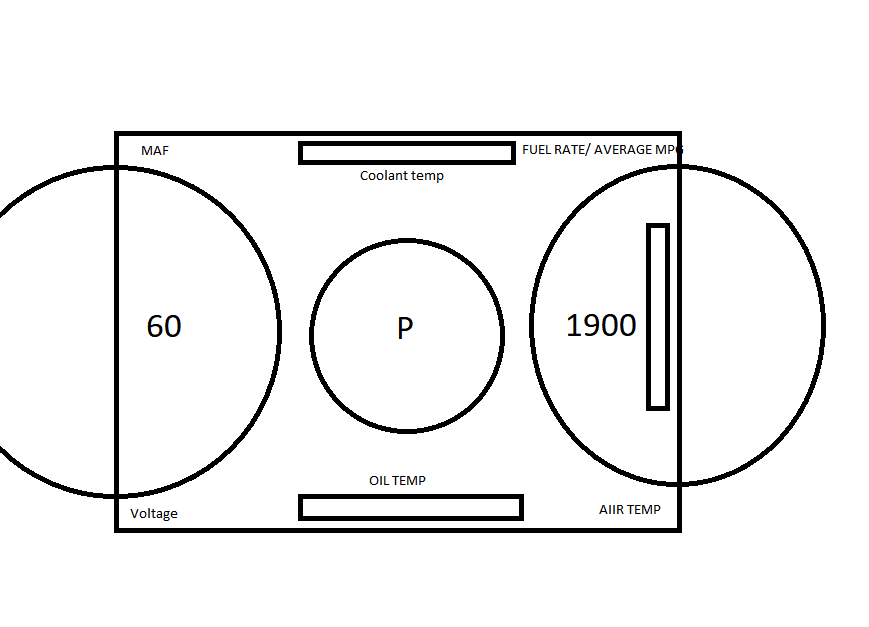
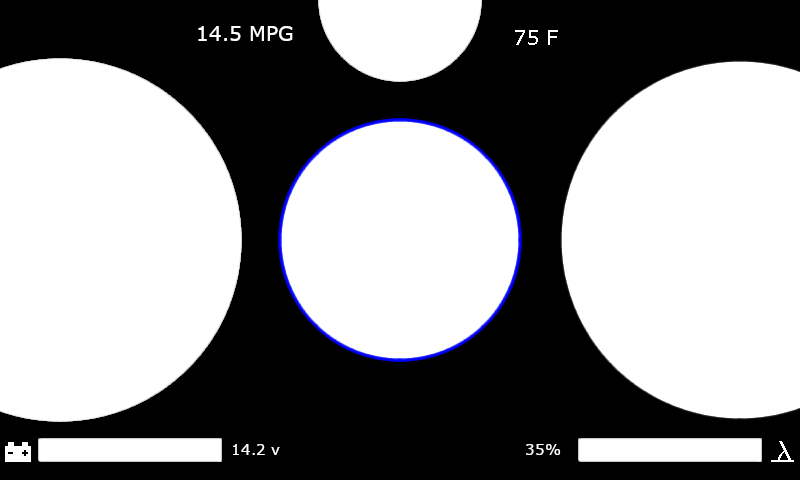
updates

diff --git a/Simple_Dash_test/main.qml b/Simple_Dash_test/main.qml
@@ -1,40 +1,76 @@
-import QtQuick 2.9
+import QtQuick 2.12
 import QtQuick.Window 2.2
 import QtQuick.VirtualKeyboard 2.2
+import QtQuick.Shapes 1.0
 
 Window {
     id: window
     visible: true
+    minimumHeight : 200
+    minimumWidth : 200
     width: 800
     height: 480
+    color: "#201f1f"
+    opacity: 1
     title: qsTr("Dash Test")
 
-    InputPanel {
-        id: inputPanel
-        z: 99
-        x: 0
-        y: window.height
-        width: window.width
 
-        states: State {
-            name: "visible"
-            when: inputPanel.active
-            PropertyChanges {
-                target: inputPanel
-                y: window.height - inputPanel.height
+    Shape {
+        id: shape
+        x: 0
+        y: 0
+        width: window.width
+        height: window.height
+        antialiasing: true
+        transformOrigin: Item.TopLeft
+        scale: 1
+
+        Text {
+            id: element
+            x: 36
+            y: 215
+            width: 160
+            height: 45
+            color: "#ffffff"
+            text: qsTr("180 MPH")
+            styleColor: "#ffffff"
+            horizontalAlignment: Text.AlignRight
+            anchors.left: parent.left
+            anchors.leftMargin: 36
+            anchors.top: parent.top
+            anchors.topMargin: 215
+            font.family: "Arial"
+            transformOrigin: Item.TopLeft
+            font.pixelSize: 38
+        }
+
+        ShapePath {
+            fillColor: "transparent"
+            strokeColor: "darkBlue"
+            strokeWidth: 20
+            capStyle: ShapePath.FlatCap
+
+            PathAngleArc {
+                centerX: 0; centerY: window.height/2
+                radiusX: Math.min(window.height, window.width)/2 - 10; radiusY:Math.min(window.height, window.width)/2 - 10;
+                startAngle: 90
+                sweepAngle: -150
+
             }
         }
-        transitions: Transition {
-            from: ""
-            to: "visible"
-            reversible: true
-            ParallelAnimation {
-                NumberAnimation {
-                    properties: "y"
-                    duration: 250
-                    easing.type: Easing.InOutQuad
-                }
-            }
-        }
+
     }
 }
+
+
+
+
+
+
+
+
+
+/*##^## Designer {
+    D{i:4;anchors_height:45;anchors_width:160;anchors_x:36;anchors_y:215}
+}
+ ##^##*/
